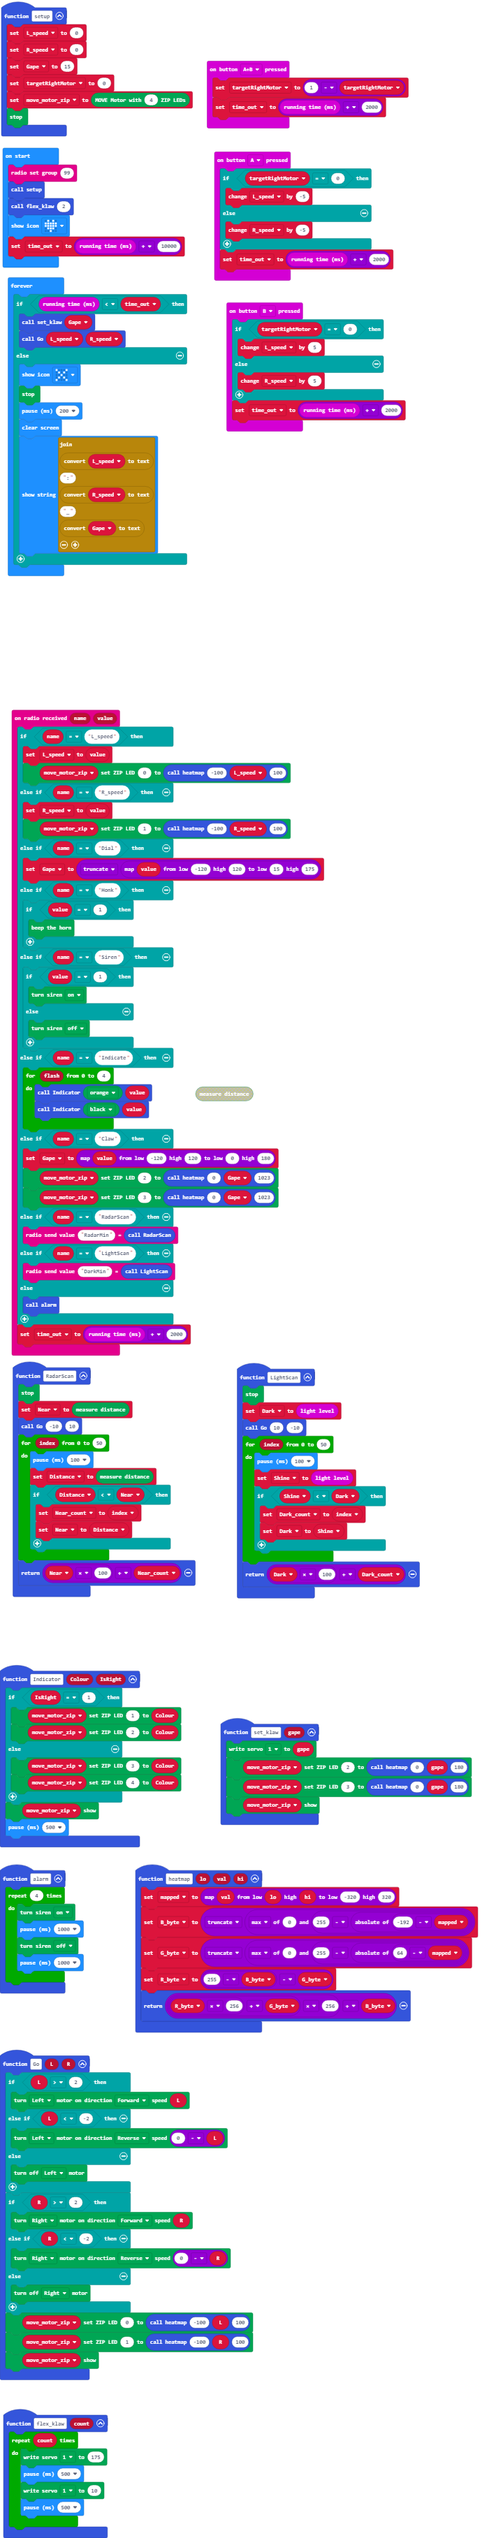
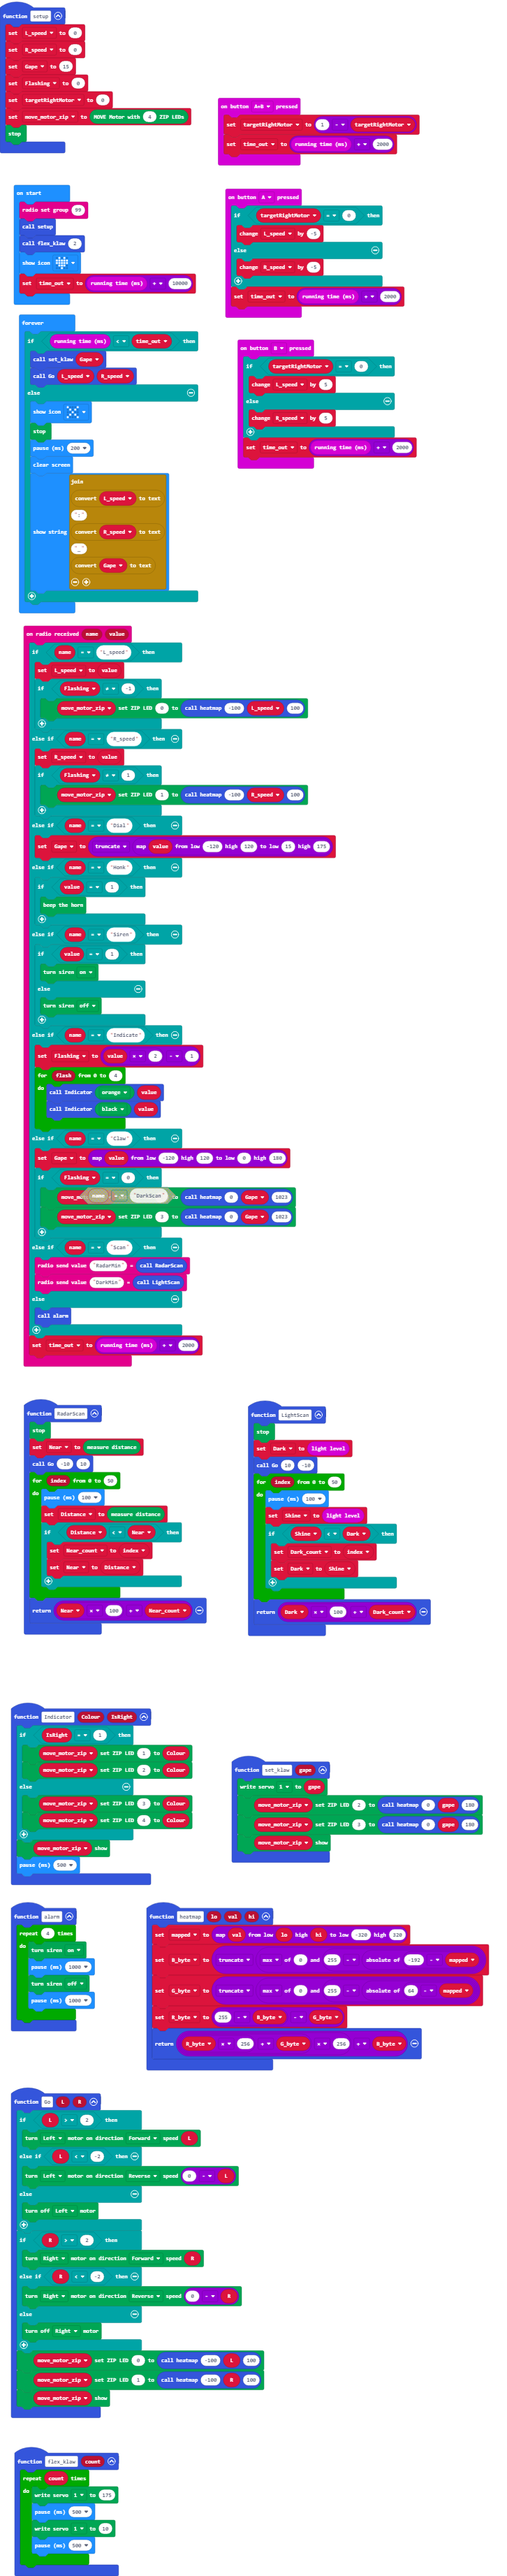
Prioritise Indicators

diff --git a/main.ts b/main.ts
@@ -87,6 +87,7 @@ function setup () {
     L_speed = 0
     R_speed = 0
     Gape = 15
+    Flashing = 0
     targetRightMotor = 0
     move_motor_zip = Kitronik_Move_Motor.createMoveMotorZIPLED(4)
     Kitronik_Move_Motor.stop()
@@ -94,10 +95,14 @@ function setup () {
 radio.onReceivedValue(function (name, value) {
     if (name == "L_speed") {
         L_speed = value
-        move_motor_zip.setZipLedColor(0, heatmap(-100, L_speed, 100))
+        if (Flashing != -1) {
+            move_motor_zip.setZipLedColor(0, heatmap(-100, L_speed, 100))
+        }
     } else if (name == "R_speed") {
         R_speed = value
-        move_motor_zip.setZipLedColor(1, heatmap(-100, R_speed, 100))
+        if (Flashing != 1) {
+            move_motor_zip.setZipLedColor(1, heatmap(-100, R_speed, 100))
+        }
     } else if (name == "Dial") {
         Gape = Math.trunc(Math.map(value, -120, 120, 15, 175))
     } else if (name == "Honk") {
@@ -111,17 +116,19 @@ radio.onReceivedValue(function (name, value) {
             Kitronik_Move_Motor.soundSiren(Kitronik_Move_Motor.OnOffSelection.Off)
         }
     } else if (name == "Indicate") {
+        Flashing = value * 2 - 1
         for (let flash = 0; flash <= 4; flash++) {
             Indicator(Kitronik_Move_Motor.colors(Kitronik_Move_Motor.ZipLedColors.Orange), value)
             Indicator(Kitronik_Move_Motor.colors(Kitronik_Move_Motor.ZipLedColors.Black), value)
         }
     } else if (name == "Claw") {
         Gape = Math.map(value, -120, 120, 0, 180)
-        move_motor_zip.setZipLedColor(2, heatmap(0, Gape, 1023))
-        move_motor_zip.setZipLedColor(3, heatmap(0, Gape, 1023))
-    } else if (name == "RadarScan") {
+        if (Flashing == 0) {
+            move_motor_zip.setZipLedColor(2, heatmap(0, Gape, 1023))
+            move_motor_zip.setZipLedColor(3, heatmap(0, Gape, 1023))
+        }
+    } else if (name == "Scan") {
         radio.sendValue("RadarMin", RadarScan())
-    } else if (name == "LightScan") {
         radio.sendValue("DarkMin", LightScan())
     } else {
         alarm()
@@ -153,6 +160,7 @@ function flex_klaw (count: number) {
 let Near_count = 0
 let Distance = 0
 let Near = 0
+let Flashing = 0
 let Gape = 0
 let R_byte = 0
 let G_byte = 0
